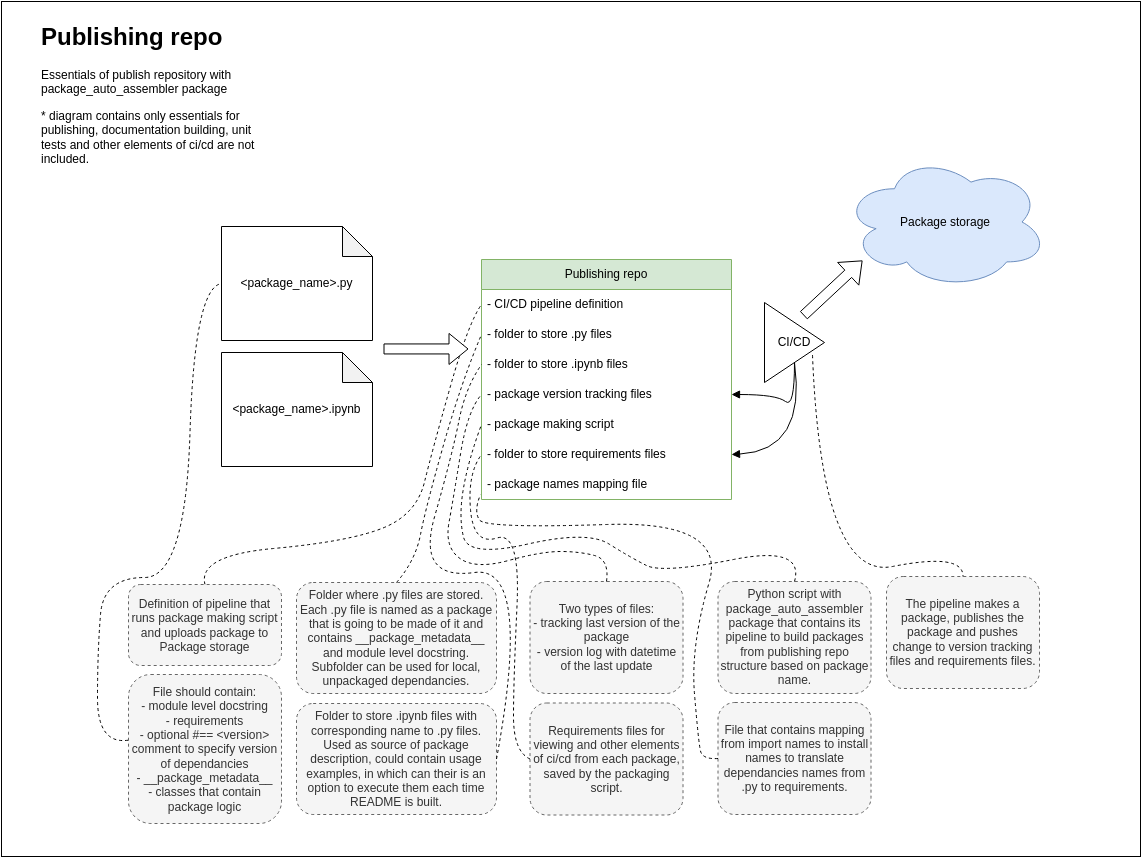
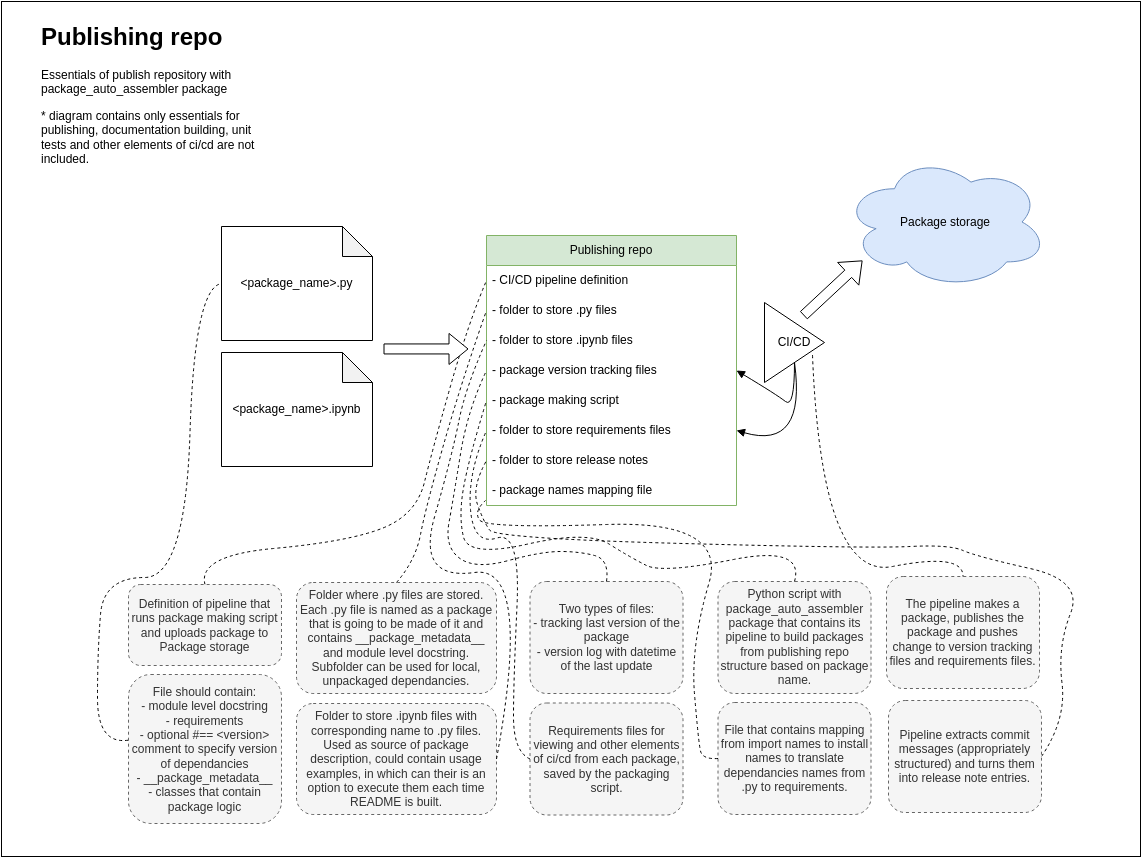
Update README

Changed region(s): [[0.3981, 0.2724, 0.643, 0.6054], [0.7655, 0.8475, 0.9186, 0.908], [0.643, 0.4237, 0.7043, 0.5448]]

diff --git a/docs/package_auto_assembler.md b/docs/package_auto_assembler.md
@@ -1,7 +1,7 @@
 ```python
 import sys
 sys.path.append('../')
-from python_modules.package_auto_assembler import (VersionHandler, \
+from package_auto_assembler import (VersionHandler, \
     ImportMappingHandler, RequirementsHandler, MetadataHandler, \
         LocalDependaciesHandler, LongDocHandler, SetupDirHandler, \
             ReleaseNotesHandler, MkDocsHandler, PackageAutoAssembler)
@@ -23,8 +23,8 @@ Package auto assembler does try to pull latest version from package storage, but
 ```python
 pv = VersionHandler(
     # required
-    versions_filepath = '../tests/package_auto_assembler/lsts_package_versions.yml',
-    log_filepath = '../tests/package_auto_assembler/version_logs.csv',
+    versions_filepath = '../tests/package_auto_assembler/other/lsts_package_versions.yml',
+    log_filepath = '../tests/package_auto_assembler/other/version_logs.csv',
     # optional
     default_version = "0.0.1")
 ```
@@ -64,7 +64,7 @@ pv.increment_patch(
 ```python
 pv.get_versions(
     # optional
-    versions_filepath = '../tests/package_auto_assembler/lsts_package_versions.yml'
+    versions_filepath = '../tests/package_auto_assembler/other/lsts_package_versions.yml'
 )
 ```
 
@@ -93,7 +93,7 @@ pv.get_version(
 ```python
 pv.get_logs(
     # optional
-    log_filepath = '../tests/package_auto_assembler/version_logs.csv'
+    log_filepath = '../tests/package_auto_assembler/other/version_logs.csv'
 )
 ```
 
@@ -247,7 +247,7 @@ Checking dependecies for vulnerabilities is usefull and it is done with `pip aud
 ```python
 rh = RequirementsHandler(
     # optional/required later
-    module_filepath = "../tests/package_auto_assembler/example_module.py",
+    module_filepath = "../tests/package_auto_assembler/other/example_module.py",
     package_mappings = {'PIL': 'Pillow',
                         'bs4': 'beautifulsoup4',
                         'fitz': 'PyMuPDF',
@@ -259,7 +259,7 @@ rh = RequirementsHandler(
                         'stdlib_list': 'stdlib-list',
                         'sklearn': 'scikit-learn',
                         'yaml': 'pyyaml'},
-    requirements_output_path = "../tests/package_auto_assembler/",
+    requirements_output_path = "../tests/package_auto_assembler/other/",
     output_requirements_prefix = "requirements_",
     custom_modules_filepath = "../tests/package_auto_assembler/dependancies",
     python_version = '3.8',
@@ -326,7 +326,7 @@ rh.is_standard_library(
 ```python
 rh.extract_requirements(
     # optional
-    module_filepath = "../tests/package_auto_assembler/example_module.py",
+    module_filepath = "../tests/package_auto_assembler/other/example_module.py",
     custom_modules = ['example_local_dependacy_2', 'example_local_dependacy_1'],
     package_mappings = {'PIL': 'Pillow',
                         'bs4': 'beautifulsoup4',
@@ -439,7 +439,7 @@ rh.write_requirements_file(
     # optional/required later
     module_name = 'example_module',
     requirements = ['### example_module.py', 'attrs>=22.2.0'],
-    output_path = "../tests/package_auto_assembler/",
+    output_path = "../tests/package_auto_assembler/other/",
     prefix = "requirements_"
 )
 ```
@@ -450,7 +450,7 @@ rh.write_requirements_file(
 ```python
 rh.read_requirements_file(
     # required
-    requirements_filepath = "../tests/package_auto_assembler/requirements_example_module.txt"
+    requirements_filepath = "../tests/package_auto_assembler/other/requirements_example_module.txt"
 )
 ```
 
@@ -471,7 +471,7 @@ Since all of the necessary information for building a package needs to be contai
 ```python
 mh = MetadataHandler(
     # optional/required later
-    module_filepath = "../tests/package_auto_assembler/example_module.py"
+    module_filepath = "../tests/package_auto_assembler/other/example_module.py"
 )
 ```
 
@@ -481,7 +481,7 @@ mh = MetadataHandler(
 ```python
 mh.is_metadata_available(
     # optional
-    module_filepath = "../tests/package_auto_assembler/example_module.py"
+    module_filepath = "../tests/package_auto_assembler/other/example_module.py"
 )
 ```
 
@@ -498,7 +498,7 @@ mh.is_metadata_available(
 ```python
 mh.get_package_metadata(
     # optional
-    module_filepath = "../tests/package_auto_assembler/example_module.py"
+    module_filepath = "../tests/package_auto_assembler/other/example_module.py"
 )
 ```
 
@@ -535,7 +535,7 @@ During packaging process paa merges main module with its local dependies into a 
 ```python
 ldh = LocalDependaciesHandler(
     # required
-    main_module_filepath = "../tests/package_auto_assembler/example_module.py",
+    main_module_filepath = "../tests/package_auto_assembler/other/example_module.py",
     dependencies_dir = "../tests/package_auto_assembler/dependancies/",
     # optional
     save_filepath = "./combined_example_module.py"
@@ -548,7 +548,7 @@ ldh = LocalDependaciesHandler(
 ```python
 print(ldh.combine_modules(
     # optional
-    main_module_filepath = "../tests/package_auto_assembler/example_module.py",
+    main_module_filepath = "../tests/package_auto_assembler/other/example_module.py",
     dependencies_dir = "../tests/package_auto_assembler/dependancies/",
     add_empty_design_choices = False
 )[0:1000])
@@ -624,7 +624,7 @@ Package description is based on `.ipynb` with same name as the `.py`. By default
 import logging
 ldh = LongDocHandler(
     # optional/required later
-    notebook_path = "../tests/package_auto_assembler/example_module.ipynb",
+    notebook_path = "../tests/package_auto_assembler/other/example_module.ipynb",
     markdown_filepath = "../example_module.md",
     timeout = 600,
     kernel_name = 'python3',
@@ -639,7 +639,7 @@ ldh = LongDocHandler(
 ```python
 ldh.convert_notebook_to_md(
     # optional
-    notebook_path = "../tests/package_auto_assembler/example_module.ipynb",
+    notebook_path = "../tests/package_auto_assembler/other/example_module.ipynb",
     output_path = "../example_module.md"
 )
 ```
@@ -653,7 +653,7 @@ ldh.convert_notebook_to_md(
 ```python
 ldh.convert_and_execute_notebook_to_md(
     # optional
-    notebook_path = "../tests/package_auto_assembler/example_module.ipynb",
+    notebook_path = "../tests/package_auto_assembler/other/example_module.ipynb",
     output_path = "../example_module.md",
     timeout = 600,
     kernel_name = 'python3'
@@ -689,7 +689,7 @@ Package are created following rather simple sequence of steps. At some point of 
 ```python
 sdh = SetupDirHandler(
     # required
-    module_filepath = "../tests/package_auto_assembler/example_module.py",
+    module_filepath = "../tests/package_auto_assembler/other/example_module.py",
     # optional/ required
     module_name = "example_module",
     metadata = {'author': 'Kyrylo Mordan',
@@ -788,7 +788,7 @@ Commit messages could also be used to increment version by something other then 
 ```python
 rnh = ReleaseNotesHandler(
     # path to existing or new release notes file
-    filepath = '../tests/package_auto_assembler/release_notes.md',
+    filepath = '../tests/package_auto_assembler/other/release_notes.md',
     # name of label in commit message [example_module] for filter
     label_name = 'example_module',
     # new version to be used in release notes
@@ -813,13 +813,11 @@ rnh.commit_messages
 
 
 
-    ['[package_auto_assembler][.+.] minor fixes for version handling in release notes and empty merge history',
-     '[package_auto_assembler] support for components imports from bundles',
-     'Update package version tracking files',
-     'Update README',
-     'Update requirements',
-     '[mocker_db][.+.] precise keywords match with cutoff 1 and fuzzy match with < 1 through filters',
-     '[mocker_db] keywords search with difflib',
+    ['fixing paa tests',
+     'fixing paa tests',
+     'fixing paa tests',
+     '[package_auto_assembler] increasing default max search depth for commit history to 5',
+     'fixing mocker-db release notes',
      'Update package version tracking files',
      'Update README',
      'Update requirements']
@@ -863,11 +861,22 @@ print(rnh.processed_messages)
 
 
 ```python
-version_update = rnh.extract_version_update()
+version_update = rnh.extract_latest_version()
 print(f"Example version_update: {version_update}")
 ```
 
     Example version_update: 0.1.2
+
+
+##### - get latest version from relevant release notes
+
+
+```python
+latest_version = rnh.extract_latest_version()
+print(f"Example latest_version: {latest_version}")
+```
+
+    Example latest_version: 0.1.2
 
 
 ##### - augment existing release note with new entries or create new
@@ -963,15 +972,15 @@ To simplify usage [cli interface](https://kiril-mordan.github.io/reusables/packa
 paa = PackageAutoAssembler(
     # required
     module_name = "example_module",
-    module_filepath  = "../tests/package_auto_assembler/example_module.py",
+    module_filepath  = "../tests/package_auto_assembler/other/example_module.py",
     # optional
     mapping_filepath = "../env_spec/package_mapping.json",
     dependencies_dir = "../tests/package_auto_assembler/dependancies/",
     example_notebook_path = "./mock_vector_database.ipynb",
-    versions_filepath = '../tests/package_auto_assembler/lsts_package_versions.yml',
-    log_filepath = '../tests/package_auto_assembler/version_logs.csv',
+    versions_filepath = '../tests/package_auto_assembler/other/lsts_package_versions.yml',
+    log_filepath = '../tests/package_auto_assembler/other/version_logs.csv',
     setup_directory = "./example_module",
-    release_notes_filepath = "../tests/package_auto_assembler/release_notes.md",
+    release_notes_filepath = "../tests/package_auto_assembler/other/release_notes.md",
     classifiers = ['Development Status :: 3 - Alpha',
                     'Intended Audience :: Developers',
                     'Intended Audience :: Science/Research',
